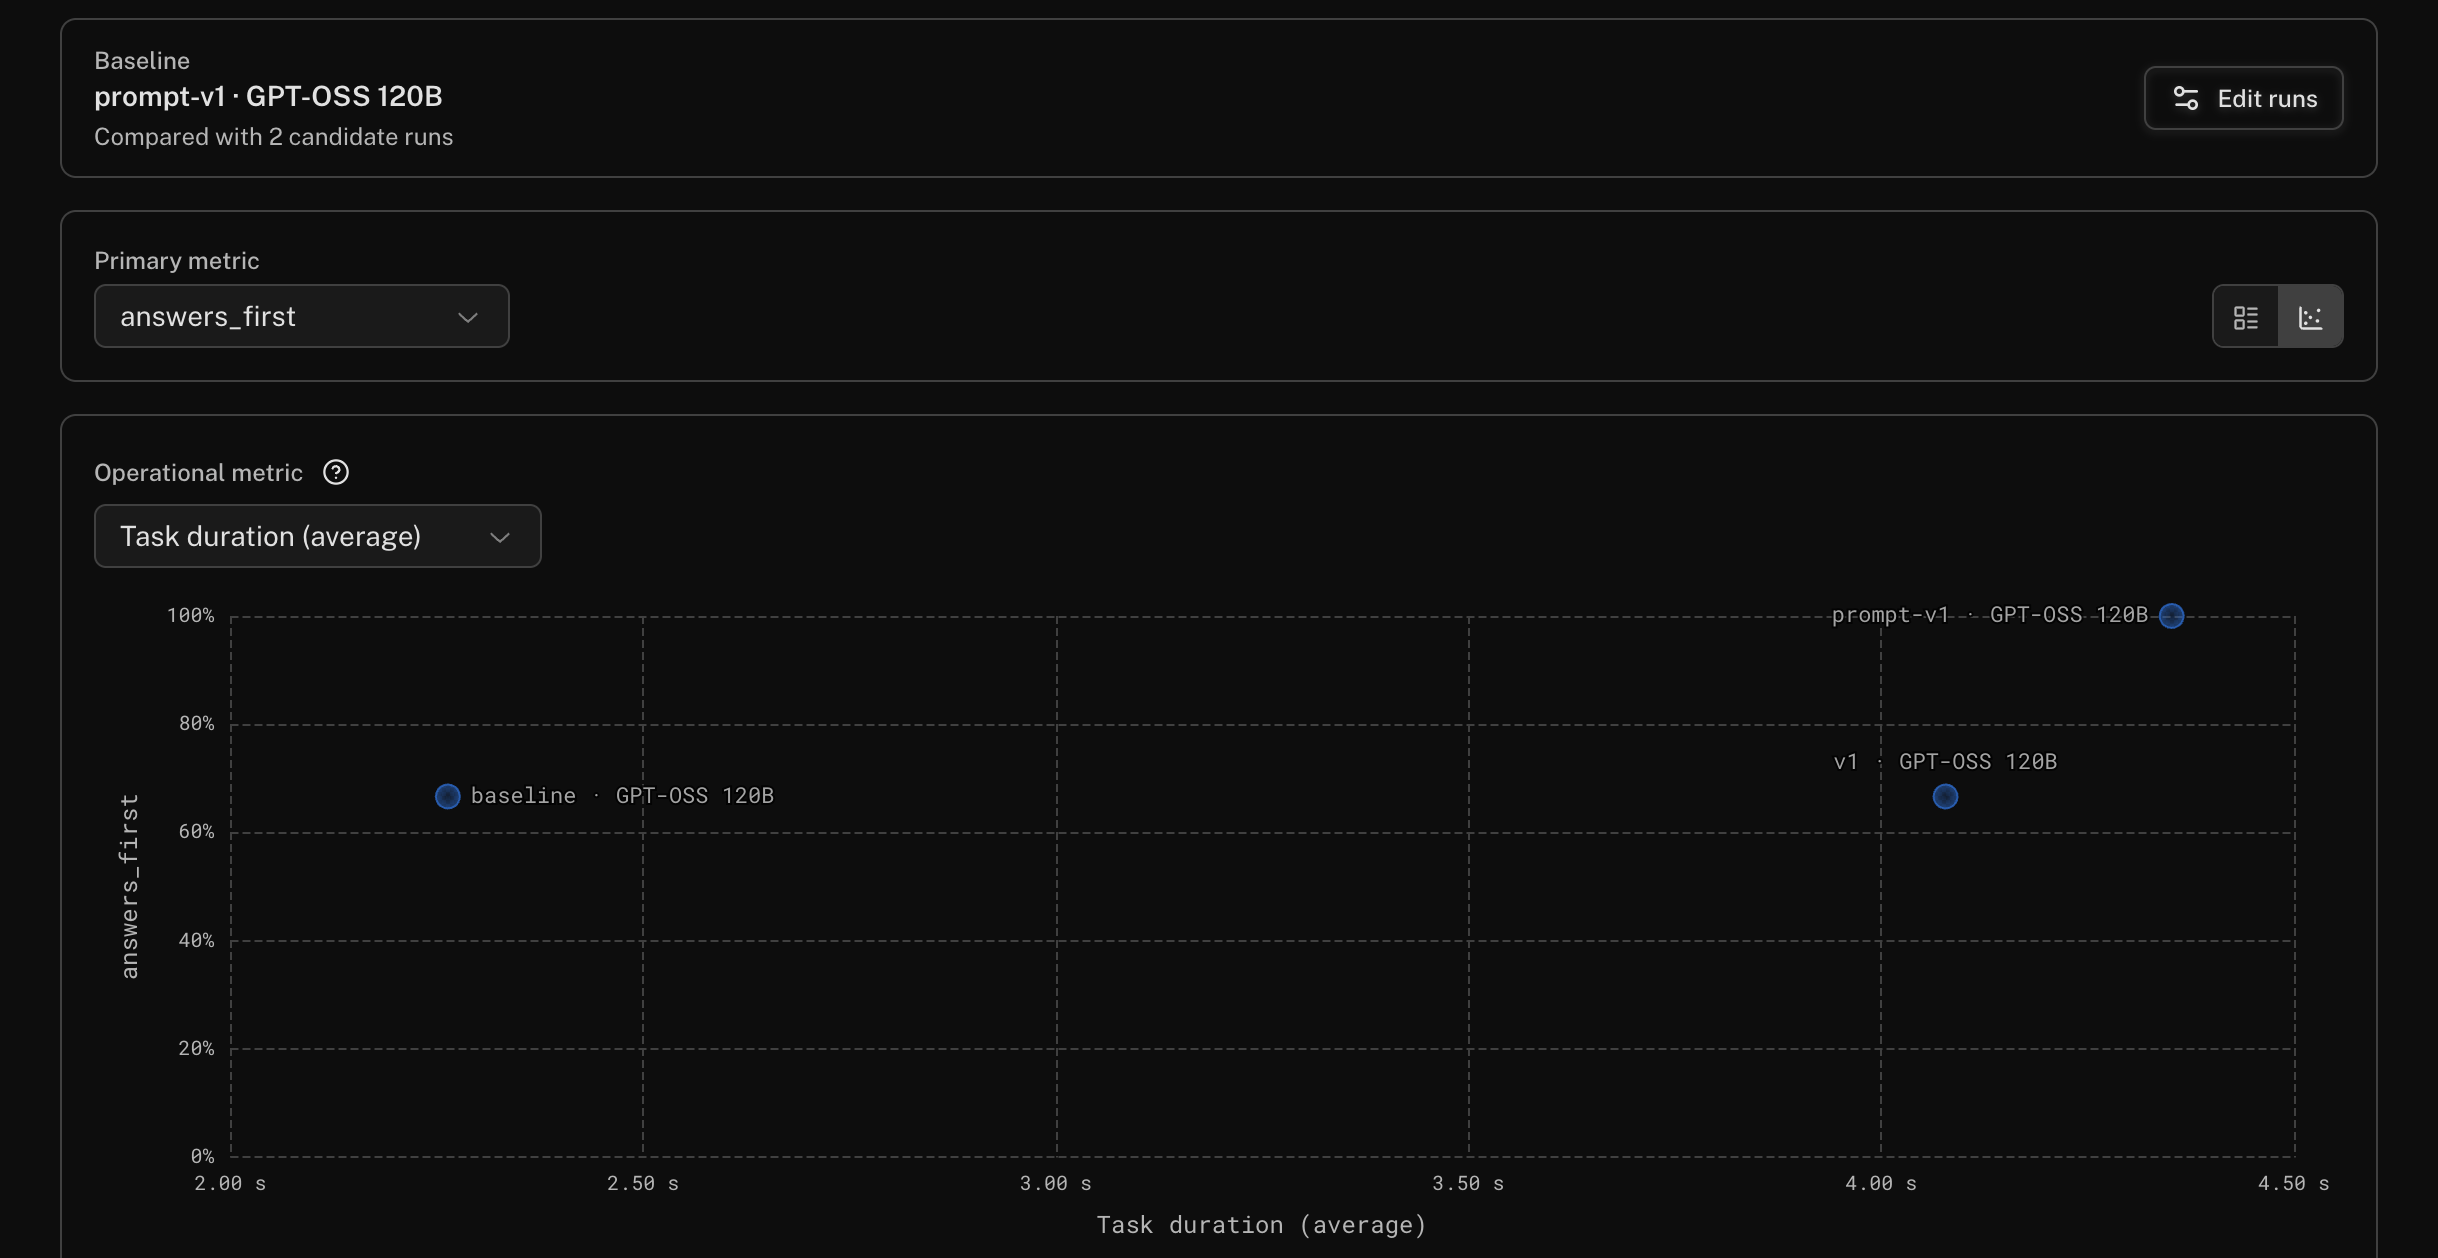
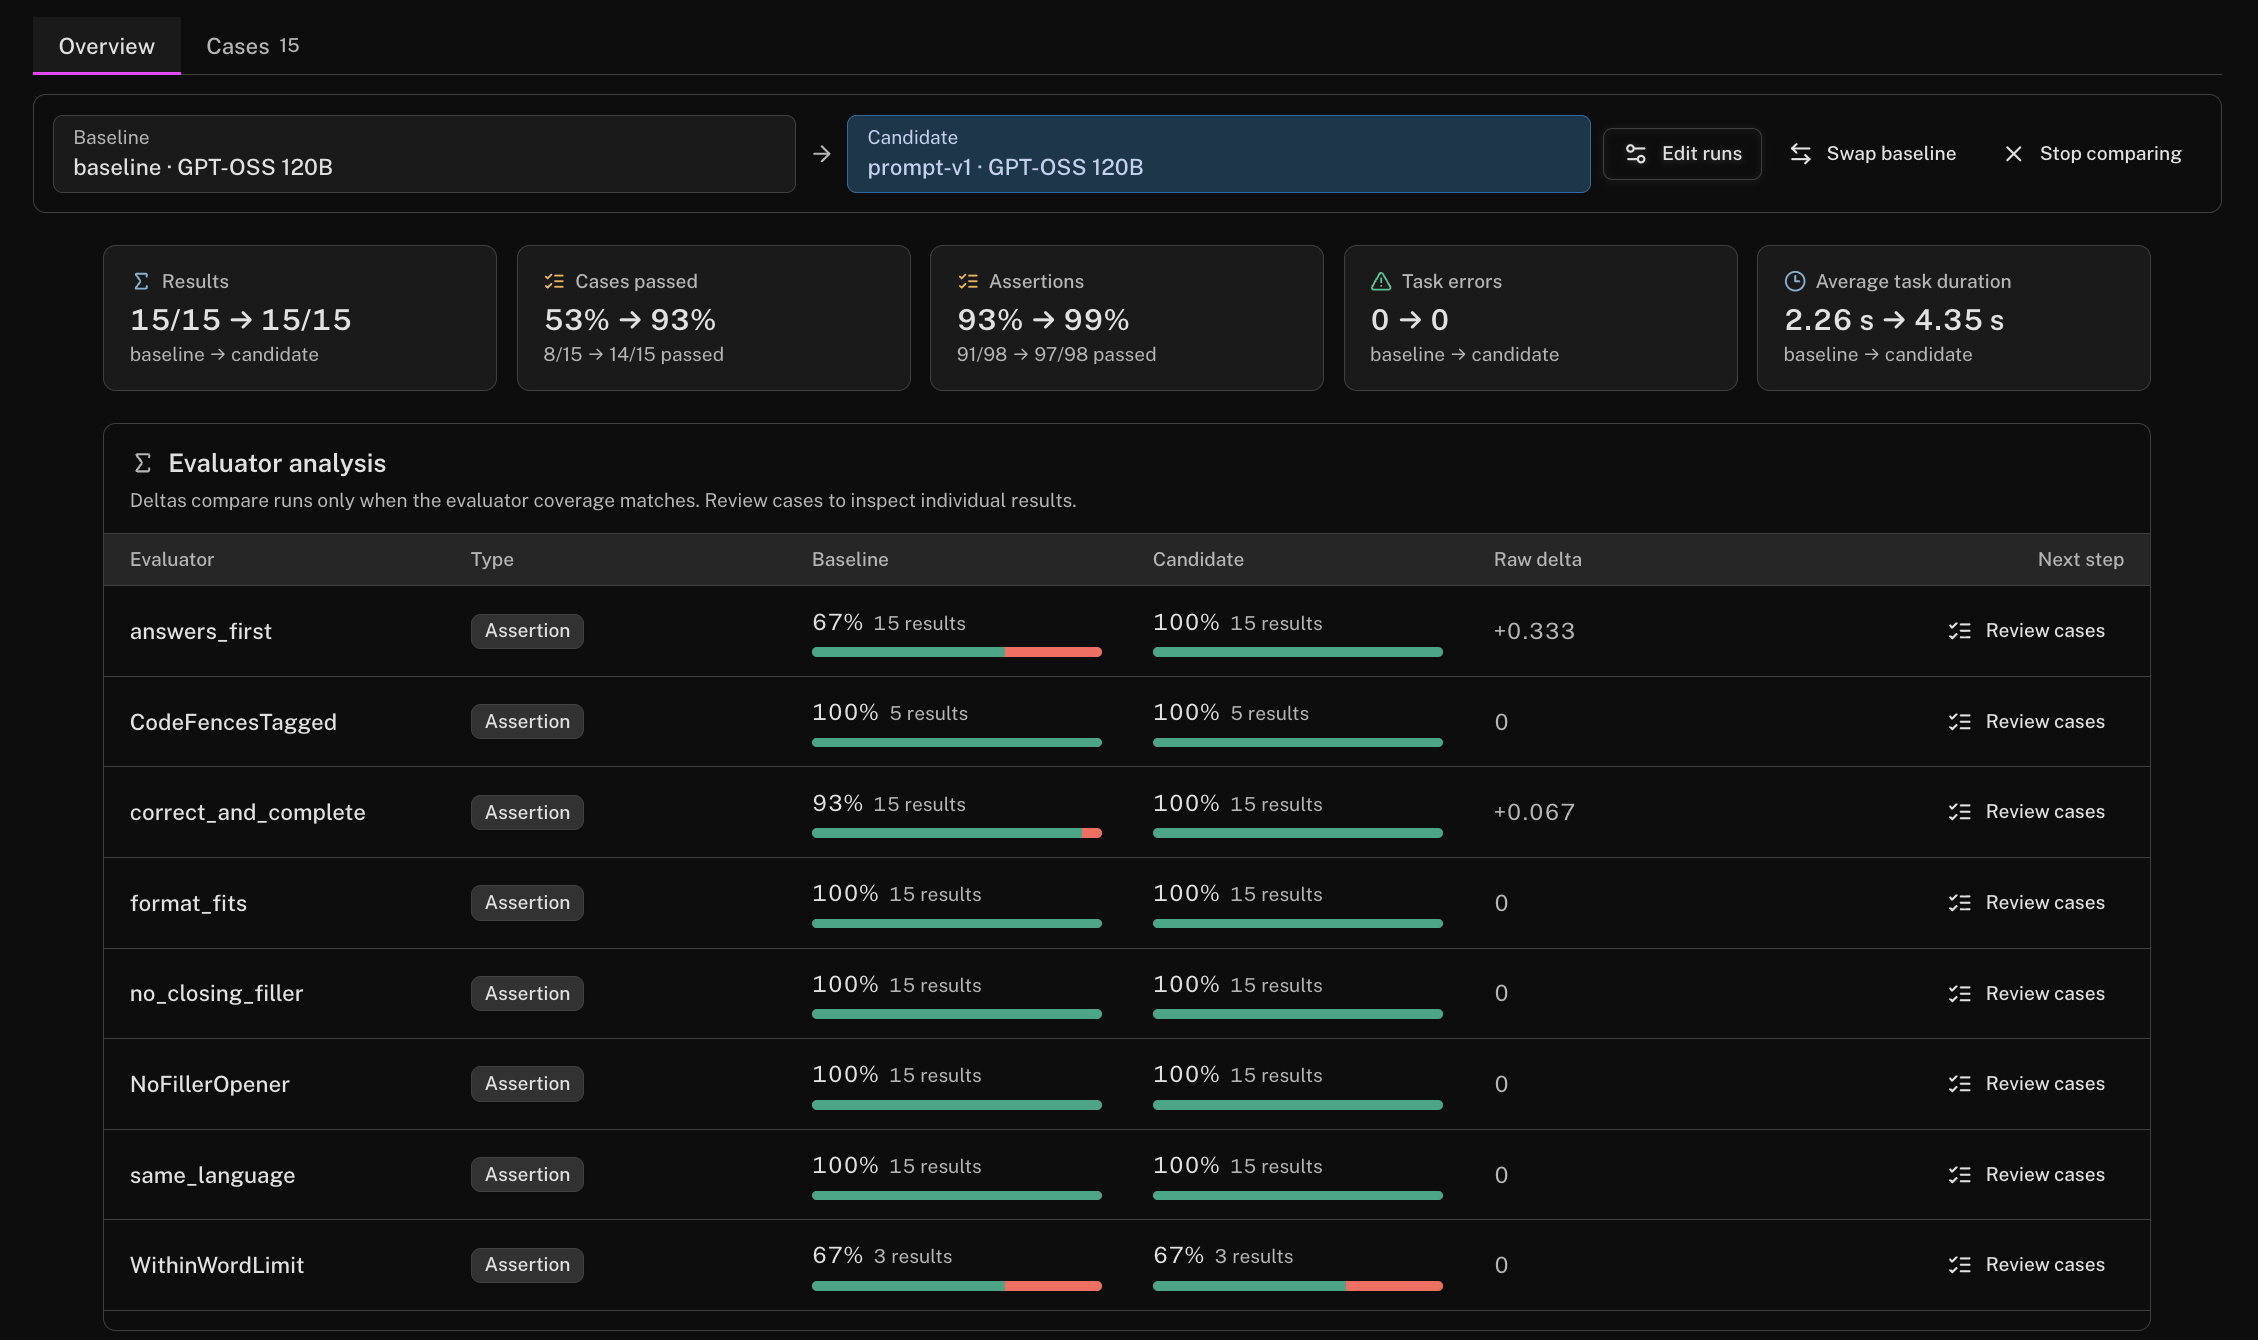
docs(architecture): show the eval comparison as a table
Baseline to prompt-v1 on GPT-OSS 120B, check by check, instead of the
scatter plot.

diff --git a/docs/architecture.md b/docs/architecture.md
@@ -104,7 +104,7 @@ back without a deploy, and each new version is measured before it goes live.
 The guidance costs time: on GPT-OSS 120B, the average answer took 4.4 s instead
 of 2.3 s.
 
-![Logfire's experiment comparison on GPT-OSS 120B, answers_first against average task duration: baseline 67% at 2.3 s, v1 67% at 4.1 s, prompt-v1 100% at 4.4 s](images/experiments.png)
+![Logfire's comparison of baseline and prompt-v1 on GPT-OSS 120B: cases passed 53% to 93%, answers_first 67% to 100%, correct_and_complete 93% to 100%, and average task duration 2.26 s to 4.35 s](images/experiments.png)
 
 ## Attachments
 
